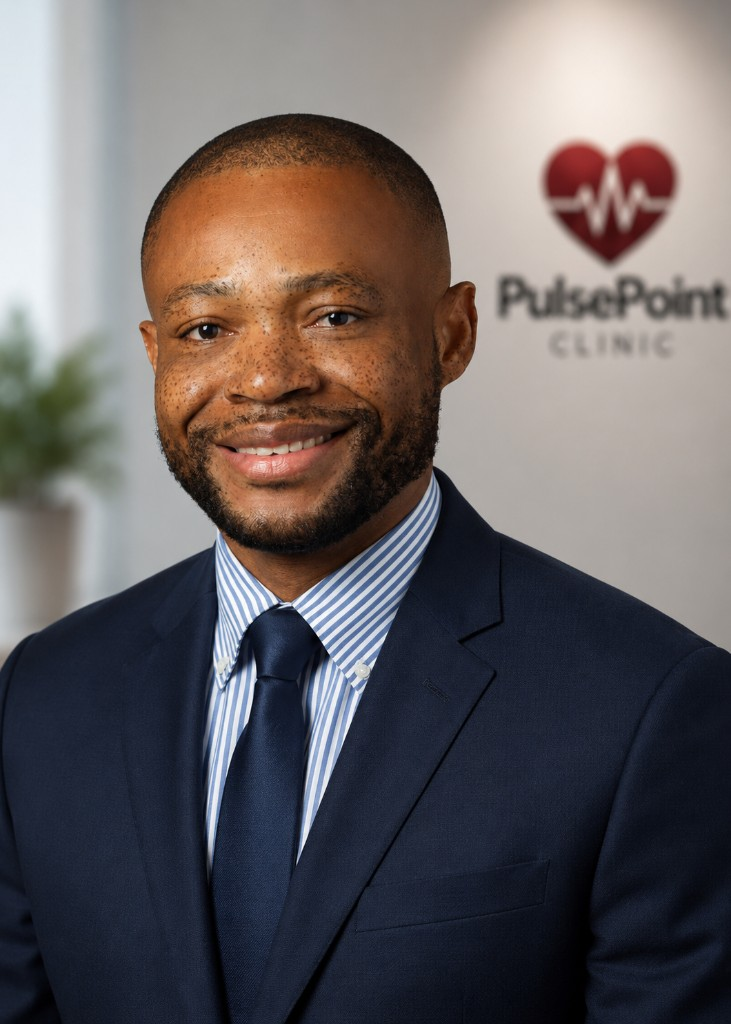
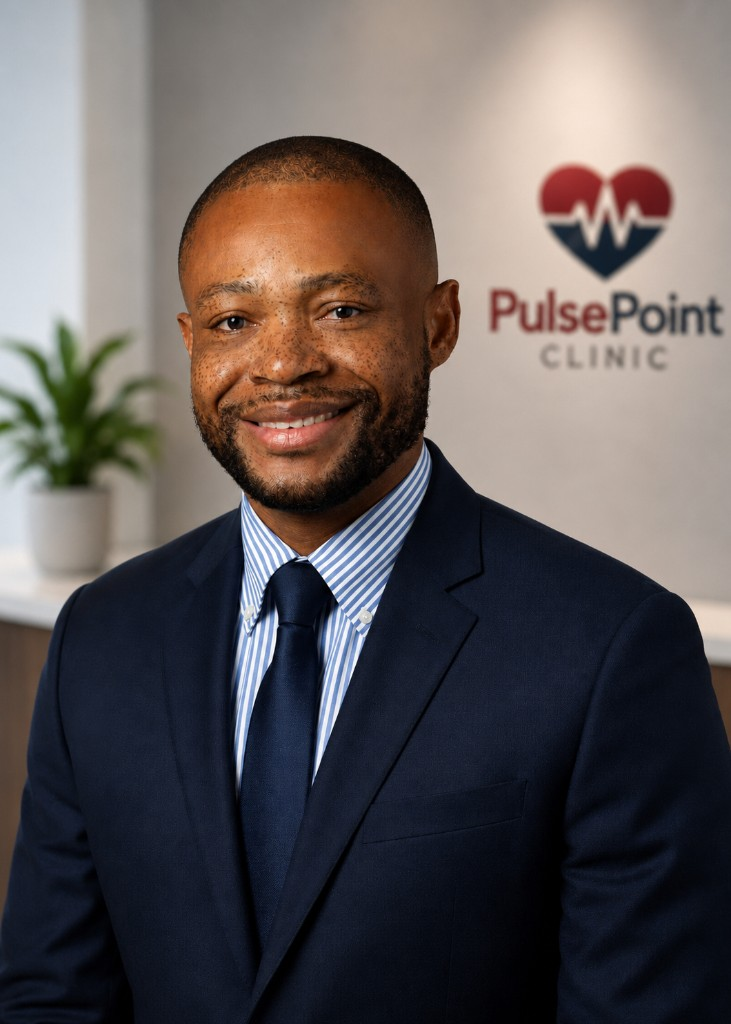
Refresh Core Cardiology messaging, Dr. Martin photo, and echo imagery.
Update the self-pay transitional program copy, replace Dr. Tibuakuu's headshot, and swap echocardiography assets on diagnostics and service pages.

diff --git a/app/services/preventive-cardiology/page.tsx b/app/services/preventive-cardiology/page.tsx
@@ -44,26 +44,45 @@ const CONDITIONS = [
 const OFFICE_PHONE_DISPLAY = '(855) 785-7337'
 const OFFICE_PHONE_TEL = 'tel:18557857337'
 
-const TRANSITIONAL_ACCESS_INTRO = [
-  'PulsePoint Cardiovascular is now accepting new patients and referrals.',
-  'As we complete enrollment and credentialing with Medicare and commercial insurance plans, we remain committed to ensuring that patients in our community have timely access to cardiovascular care during this period of significant transition in the local healthcare landscape.',
-  'To avoid delays in care, PulsePoint is offering a temporary Transitional Access Program for eligible patients. This program allows patients to receive prompt cardiovascular evaluation, diagnostic testing, treatment recommendations, and ongoing care while insurance credentialing is being finalized.',
-  'Our goal is simple: no patient should have to wait months for access to a cardiologist when timely evaluation may make a meaningful difference in their health.',
+const CORE_PROGRAM_INTRO = [
+  'The PulsePoint Core Cardiology Program is now accepting new patients and physician referrals for comprehensive cardiovascular evaluation and management.',
+  'As we complete enrollment and credentialing with Medicare and commercial insurance plans, we remain committed to ensuring that patients throughout Mid-Missouri have timely access to high-quality cardiovascular care during this period of significant transition in the local healthcare landscape.',
+] as const
+
+const TRANSITIONAL_SELF_PAY = [
+  'To avoid delays in care, the PulsePoint Core Cardiology Program is currently offering a temporary Transitional Self-Pay Access Program while insurance credentialing is being finalized.',
+  'Through this program, eligible patients may be seen immediately on a self-pay basis for cardiovascular consultations, diagnostic testing, preventive cardiology services, follow-up visits, and pre-operative cardiac evaluations. Transparent pricing will be provided prior to scheduling, with no membership requirements or long-term commitments.',
+  'Our goal is simple: to provide patients with timely access to a cardiologist when they need care most.',
 ] as const
 
 const TRANSITIONAL_ACCESS_SERVICES = [
   'New patient cardiovascular consultations',
-  'Urgent cardiology evaluations',
-  'Pre-operative cardiac assessments',
-  'Heart rhythm evaluations',
+  'Follow-up cardiology visits',
+  'Urgent cardiovascular evaluations',
+  'Hypertension management',
   'Coronary artery disease management',
+  'Heart rhythm evaluations',
   'Heart failure management',
-  'Hypertension and preventive cardiology services',
+  'Preventive cardiology services',
+  'Pre-operative cardiac assessments',
   'Electrocardiograms (ECG)',
   'Echocardiography',
-  'Stress testing',
+  'Exercise stress testing',
+  'Stress echocardiography',
   'Ambulatory cardiac monitoring',
   'Vascular ultrasound testing',
+] as const
+
+const INSURANCE_CREDENTIALING = [
+  'PulsePoint is actively pursuing enrollment and credentialing with Medicare and major commercial insurance plans.',
+  'During this transitional period, services provided through the Transitional Self-Pay Access Program are paid directly by the patient at the time of service. Insurance billing options may become available as credentialing is completed.',
+  'Patients with Medicare or commercial insurance are encouraged to contact our office so that we may discuss the most appropriate scheduling and payment options based on their individual circumstances.',
+] as const
+
+const CORE_PROGRAM_COMMITMENT = [
+  'At PulsePoint, we believe patients should not experience unnecessary delays in cardiovascular care due to healthcare system transitions or administrative barriers.',
+  'Whether you are experiencing new symptoms, need ongoing cardiac care, require a pre-operative evaluation, or have been displaced by recent changes in the local cardiology landscape, our team is here to help.',
+  'If you need a cardiologist now, we invite you to contact the PulsePoint Core Cardiology Program to discuss available appointment options.',
 ] as const
 
 const PILLARS = [
@@ -379,48 +398,44 @@ export default function CoreCardiologyPage() {
           </div>
         </section>
 
-        {/* Transitional Access Program */}
+        {/* Core Cardiology Program announcement */}
         <section className="border-y border-[#E8EDF3] bg-graybg px-5 py-12 sm:px-8 sm:py-14 lg:px-12 lg:py-16">
           <div className="mx-auto max-w-3xl">
-            <h2 className="font-display text-[1.85rem] font-bold leading-tight text-navy sm:text-[2.25rem]">
-              Immediate Access to Cardiovascular Care
+            <p className="text-[.68rem] font-bold uppercase tracking-[2.6px] text-wine sm:text-[.72rem]">
+              PulsePoint Core Cardiology Program
+            </p>
+            <h2 className="mt-3 font-display text-[1.85rem] font-bold leading-tight text-navy sm:text-[2.25rem]">
+              Now Accepting New Patients and Referrals
             </h2>
             <div className="mt-4 h-[3px] w-12 rounded bg-wine" />
 
             <div className="mt-6 space-y-4 text-base leading-[1.75] text-charcoal/85 sm:text-[1.02rem]">
-              {TRANSITIONAL_ACCESS_INTRO.map((paragraph) => (
+              {CORE_PROGRAM_INTRO.map((paragraph) => (
                 <p key={paragraph}>{paragraph}</p>
               ))}
             </div>
 
             <div className="mt-10 space-y-10">
+              <Subsection title="Transitional Self-Pay Access Program">
+                {TRANSITIONAL_SELF_PAY.map((paragraph) => (
+                  <p key={paragraph}>{paragraph}</p>
+                ))}
+              </Subsection>
+
               <Subsection title="Services Available">
                 <BulletList items={TRANSITIONAL_ACCESS_SERVICES} />
               </Subsection>
 
-              <Subsection title="For Patients with Insurance">
-                <p>
-                  PulsePoint is actively credentialing with Medicare and major commercial insurance
-                  plans. Coverage and billing options may vary depending on your insurance plan and
-                  the status of our enrollment process at the time of your visit.
-                </p>
-                <p>
-                  Our team will gladly discuss available options and provide transparent pricing
-                  information prior to scheduling.
-                </p>
+              <Subsection title="Insurance Credentialing Status">
+                {INSURANCE_CREDENTIALING.map((paragraph) => (
+                  <p key={paragraph}>{paragraph}</p>
+                ))}
               </Subsection>
 
               <Subsection title="Our Commitment">
-                <p>
-                  We believe access to high-quality cardiovascular care should not be interrupted
-                  by administrative transitions. Whether you are a new patient, an established
-                  cardiac patient seeking ongoing care, or a physician looking for timely specialty
-                  access for your patients, our team is here to help.
-                </p>
-                <p>
-                  To schedule an appointment or discuss available care options, please contact
-                  PulsePoint Cardiovascular directly.
-                </p>
+                {CORE_PROGRAM_COMMITMENT.map((paragraph) => (
+                  <p key={paragraph}>{paragraph}</p>
+                ))}
               </Subsection>
             </div>
 